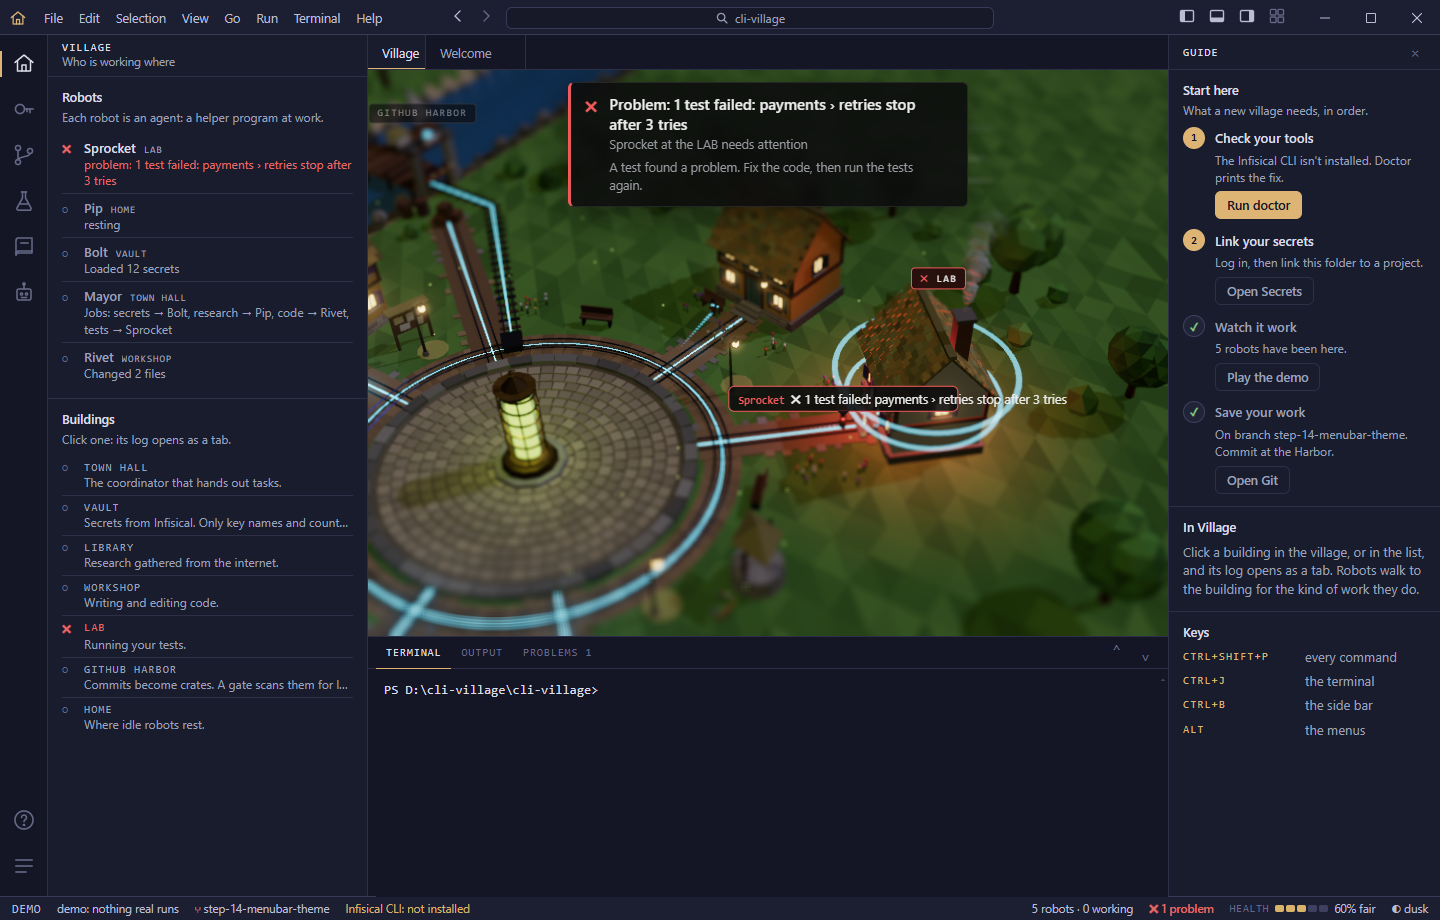
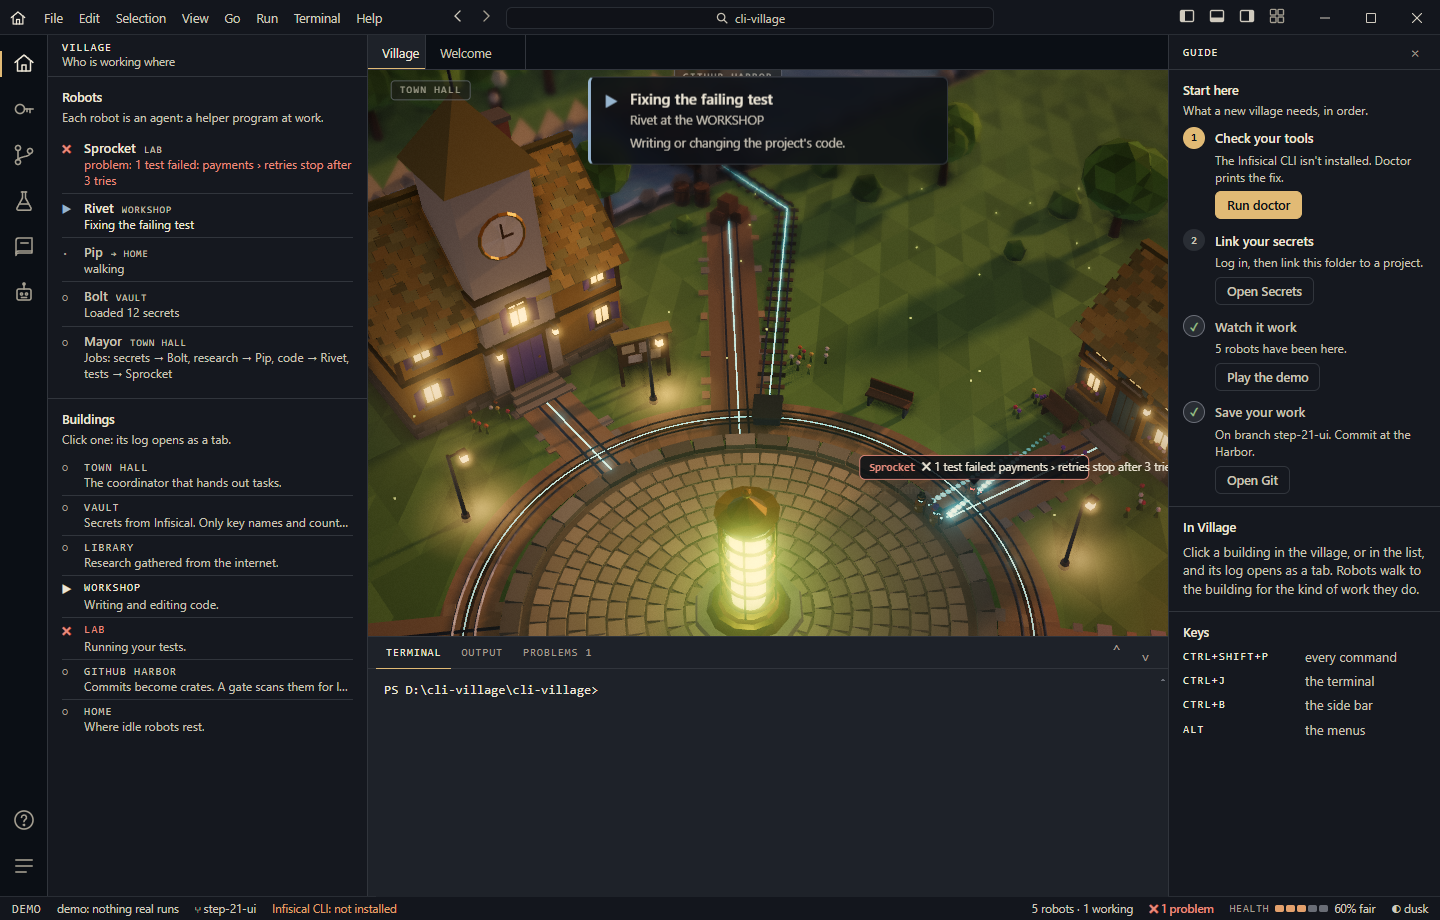
README: new screenshots and words for the new look
All five pictures retaken with the new renderer and colours: the village by
day during the demo, a stopped crate at the harbor gate, night, the VAULT's
log, and the desktop app with a failing test. The text no longer mentions
Infisical's lime or an indigo window, and describes the shared colours.

diff --git a/README.md b/README.md
@@ -195,7 +195,7 @@ $ cli-village commit -m "Add payments"
 
   ![A real commit with a secret in it, stopped at the gate](docs/screenshots/village-harbor-stopped.jpg)
 - The camera drifts slowly and glides to wherever the most important thing is happening, turning to show that building from the front. The caption at the top says what that is (and the real command).
-- The page has the same zones as the terminal view: a status bar on top, the one key message, a side panel with the robots and the "What's happening" log, and key hints at the bottom. Its look follows Infisical's own app: dark panels, thin borders, one lime accent.
+- The page has the same zones as the terminal view: a status bar on top, the one key message, a side panel with the robots and the "What's happening" log, and key hints at the bottom. Its colours are the desktop app's: calm surfaces, cream text and one lantern-gold accent, and they follow the village's light too.
 - **Drag** to look around, **scroll** to zoom, **click** a building to see it up close, with its own log in the side panel. Keys: `?` help, `l` show or hide the side panel, `d` more or less detail in the log, `n` night, `h` back to the whole village, `Esc` close.
 - If your system asks for less motion (*reduce motion*), or you start it with `--no-animation`, the village stands still: robots appear where they're going, and the camera only moves when you click a building or press `h`.
 - With `--compact`, the caption drops the explanation line and the key hints are hidden.
@@ -207,7 +207,7 @@ $ cli-village commit -m "Add payments"
 Everything is built from simple shapes in code (no image textures) with [three.js](https://threejs.org/). The page loads nothing from the internet.
 
 **How it's drawn.** The village is lit like a miniature on a table:
-- a sun that moves with the time of day: soft shadows that sharpen where things touch the ground, long and orange at dusk, a pale moon at night;
+- a sun that moves with the time of day: soft shadows that sharpen where things touch the ground, long and golden at dusk, a pale moon at night;
 - a sky with clouds and stars, haze in the distance and mist low over the ground;
 - a river with waves, sun glints and foam along its banks, and trees that sway in the wind;
 - lamps that light the ground around them after dark;
@@ -229,7 +229,7 @@ A window laid out like VS Code, so nothing has to open in your browser:
 - **Title bar** with the usual menus (File, Edit, Selection, View, Go, Run, Terminal, Help), Back and Forward, a command box in the middle, the layout toggles and the window buttons. Every menu item does something: Run holds every CLI Village command, View holds the lighting and the layout, Go moves between tabs and buildings. View › Graphics Quality picks how much the village draws. `Alt` opens the menus, as in VS Code.
 - **Welcome** opens first, with the three things a new village needs: check your tools, link your secrets, watch a workday. The **Guide** on the right keeps those steps in view, ticks them off as you go, and explains whichever tool you're in. Close it with `Ctrl+Alt+B`.
 - **Activity bar** on the left: Village, Secrets, Git, Tests, Research, Agents and Help. Each opens a side bar with that tool's steps and buttons and the matching building's log. The Secrets tool lists key names and compares environments; the Git tool commits and pushes; values never appear. Help has collapsible sections for the buildings, the keys and the words.
-- **The village** in the middle, at dusk by default. Click a building and its log opens as a tab beside the village. The window's colours follow the village's light: indigo at night, warm charcoal by day, a lantern amber for the accent. View › Lighting picks day, dusk, night, or a ten-minute cycle.
+- **The village** in the middle, at dusk by default. Click a building and its log opens as a tab beside the village. The window's colours follow the village's light: stone and wood by day, a slate blue like the sky at night, with one lantern gold for focus, selection and the next thing to do. The work area is lifted above the frame and side bars, and every text colour passes WCAG AA at any light ([src/views/colors.ts](src/views/colors.ts), checked by `test/colors.test.mjs`). View › Lighting picks day, dusk, night, or a ten-minute cycle.
 - **A real terminal** at the bottom (PowerShell on Windows, your shell elsewhere). Run `cli-village test`, `commit`, `push` or anything else there, and the village reacts, because the app hosts the village's socket. The Output tab shows the whole log; Problems lists what needs attention. `Ctrl+F` finds a word in a log.
 - **A command palette** on `Ctrl+Shift+P` with every command: each line says what it does in plain English and shows the real command it types into the terminal. `Ctrl+J` hides the panel, `Ctrl+B` the side bar.
 
